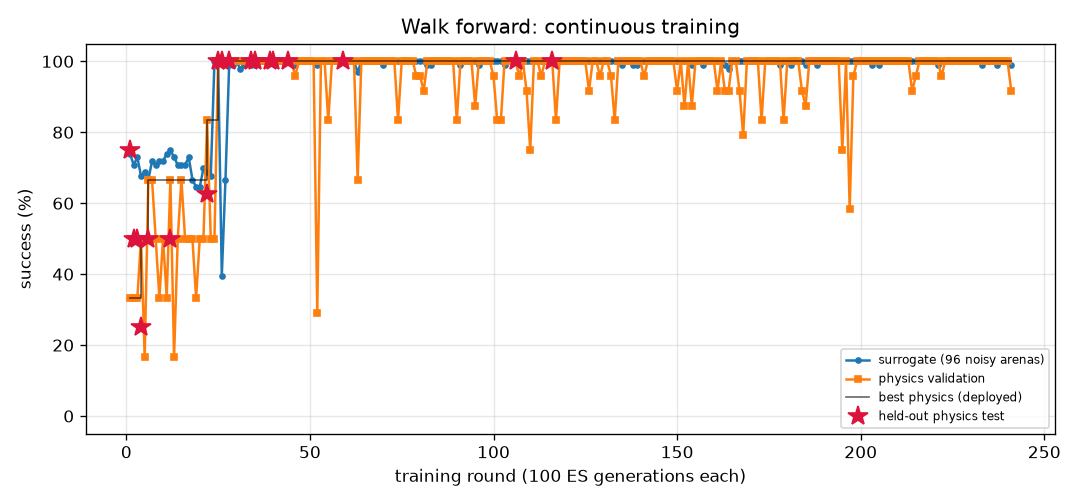
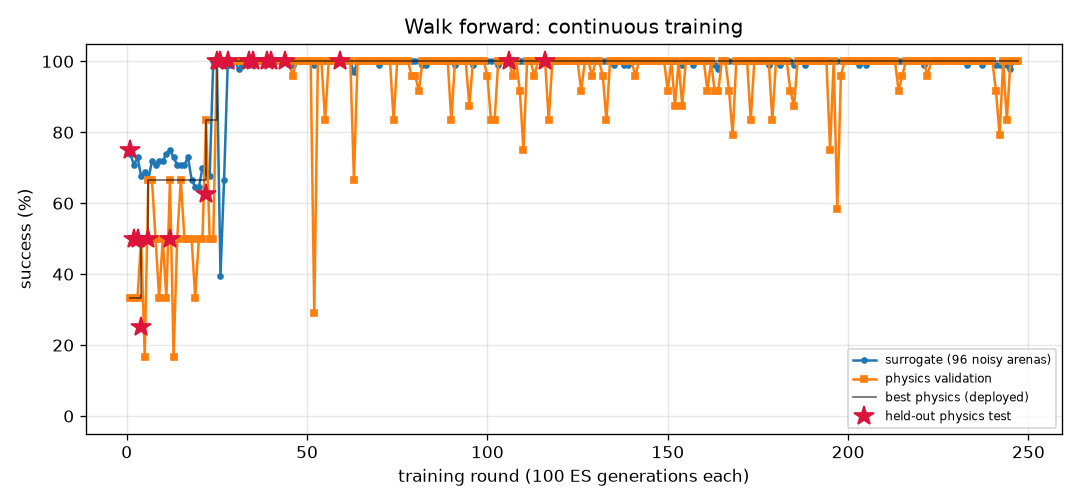
FlyLab: continuous training progress
- walk_forward: optimal, physics val 100% of 24, round 247
- turn: optimal, physics val 100% of 24, round 771
- goto: optimal, physics val 100% of 24, round 200
- odor_seek: optimal, physics val 100% of 24, round 170
- odor_avoid: optimal, physics val 100% of 24, round 711
- light_seek: optimal, physics val 100% of 24, round 399
- light_avoid: optimal, physics val 100% of 24, round 447

diff --git a/projects/09_flylab/training/walk_forward/REPORT.md b/projects/09_flylab/training/walk_forward/REPORT.md
@@ -1,14 +1,14 @@
 # Walk forward (`walk_forward`) — training report
 
-*Auto-generated by `train_brains.py`, last updated 2026-10-30T21:28:15.*
+*Auto-generated by `train_brains.py`, last updated 2026-10-31T22:15:03.*
 
 ![curve](curve.png)
 
 | | |
 |---|---|
-| rounds | 241 |
-| ES generations | 24100 |
-| physics runs | 5798 |
+| rounds | 247 |
+| ES generations | 24700 |
+| physics runs | 5942 |
 | status | **optimal** |
 | best brain | round 116: physics validation **100%** on 24 arenas, surrogate 100% |
 | held-out physics test | **100%** on 32 unseen arenas (95% CI 89%-100%) (errors: [0.13, 0.16, 0.19, 0.16, 0.15, 0.2, 0.17, 0.18, 0.17, 0.19, 0.2, 0.14, 0.17, 0.19, 0.2, 0.2, 0.13, 0.19, 0.16, 0.2, 0.2, 0.16, 0.17, 0.2, 0.13, 0.15, 0.18, 0.14, 0.16, 0.15, 0.19, 0.12]) |
@@ -17,12 +17,6 @@ Physics error per arena: mm from target at the end (< 1.5 and standing still = s
 
 | round | level | gens | sigma | surrogate | physics val | val errors | test | note |
 |---:|---:|---:|---:|---:|---:|---|---:|---|
-| 202 | 3 | 20200 | 0.024 | 100% | 100% | [0.25, 0.26, 0.23, 0.25, 0.26, 0.22, 0.26, 0.23, 0.26, 0.27, 0.22, 0.26, 0.23, 0.22, 0.25, 0.27, 0.25, 0.26, 0.23, 0.25, 0.23, 0.27, 0.26, 0.23] |  |  |
-| 203 | 3 | 20300 | 0.024 | 99% | 100% | [0.23, 0.24, 0.21, 0.23, 0.16, 0.11, 0.22, 0.17, 0.23, 0.28, 0.09, 0.2, 0.2, 0.18, 0.24, 0.28, 0.23, 0.22, 0.17, 0.23, 0.16, 0.28, 0.24, 0.22] |  |  |
-| 204 | 3 | 20400 | 0.025 | 100% | 100% | [0.22, 0.21, 0.23, 0.23, 0.21, 0.23, 0.22, 0.24, 0.21, 0.17, 0.22, 0.15, 0.23, 0.23, 0.22, 0.18, 0.23, 0.22, 0.24, 0.22, 0.23, 0.15, 0.17, 0.23] |  | restart from best |
-| 205 | 3 | 20500 | 0.024 | 99% | 100% | [0.25, 0.29, 0.16, 0.25, 0.29, 0.16, 0.29, 0.18, 0.29, 0.27, 0.16, 0.24, 0.18, 0.16, 0.26, 0.26, 0.23, 0.28, 0.19, 0.28, 0.21, 0.26, 0.23, 0.17] |  |  |
-| 206 | 3 | 20600 | 0.025 | 100% | 100% | [0.16, 0.25, 0.15, 0.16, 0.24, 0.16, 0.26, 0.15, 0.25, 0.29, 0.16, 0.28, 0.14, 0.16, 0.18, 0.29, 0.14, 0.23, 0.15, 0.18, 0.14, 0.29, 0.29, 0.15] |  |  |
-| 207 | 3 | 20700 | 0.024 | 100% | 100% | [0.35, 0.23, 0.33, 0.34, 0.32, 0.31, 0.23, 0.37, 0.22, 0.36, 0.25, 0.38, 0.35, 0.31, 0.35, 0.41, 0.3, 0.22, 0.37, 0.24, 0.38, 0.4, 0.38, 0.35] |  |  |
 | 208 | 3 | 20800 | 0.024 | 100% | 100% | [0.25, 0.31, 0.09, 0.24, 0.29, 0.11, 0.3, 0.19, 0.31, 0.31, 0.17, 0.3, 0.18, 0.08, 0.26, 0.3, 0.24, 0.29, 0.16, 0.27, 0.22, 0.3, 0.21, 0.19] |  | restart from best |
 | 209 | 3 | 20900 | 0.024 | 100% | 100% | [0.26, 0.26, 0.22, 0.26, 0.27, 0.22, 0.26, 0.24, 0.26, 0.24, 0.2, 0.22, 0.24, 0.22, 0.27, 0.23, 0.26, 0.27, 0.25, 0.26, 0.25, 0.24, 0.22, 0.24] |  |  |
 | 210 | 3 | 21000 | 0.024 | 100% | 100% | [0.23, 0.27, 0.19, 0.23, 0.26, 0.19, 0.27, 0.2, 0.27, 0.25, 0.18, 0.24, 0.19, 0.19, 0.24, 0.24, 0.22, 0.26, 0.2, 0.24, 0.21, 0.25, 0.23, 0.19] |  |  |
@@ -57,3 +51,9 @@ Physics error per arena: mm from target at the end (< 1.5 and standing still = s
 | 239 | 3 | 23900 | 0.024 | 100% | 100% | [0.31, 0.3, 0.33, 0.32, 0.3, 0.34, 0.29, 0.33, 0.29, 0.28, 0.34, 0.27, 0.33, 0.34, 0.31, 0.27, 0.32, 0.3, 0.33, 0.31, 0.33, 0.27, 0.26, 0.34] |  |  |
 | 240 | 3 | 24000 | 0.024 | 100% | 100% | [0.24, 0.31, 0.15, 0.23, 0.3, 0.16, 0.3, 0.17, 0.3, 0.3, 0.08, 0.27, 0.17, 0.16, 0.25, 0.28, 0.22, 0.29, 0.18, 0.27, 0.19, 0.29, 0.27, 0.17] |  | restart from best |
 | 241 | 3 | 24100 | 0.024 | 99% | 92% | [0.05, 0.14, 0.04, 0.05, 0.14, 0.04, 0.15, 0.05, 0.15, 0.17, 1.61, 0.17, 0.05, 0.09, 0.07, 0.17, 0.08, 0.05, 0.06, 0.05, 0.07, 0.16, 0.15, 0.05] |  |  |
+| 242 | 3 | 24200 | 0.025 | 99% | 79% | [0.2, 0.25, 0.12, 0.2, 0.25, 0.45, 0.24, 0.07, 0.24, 0.05, 0.03, 0.07, 0.44, 0.37, 0.22, 0.03, 0.18, 0.24, 0.08, 0.23, 0.06, 0.05, 0.06, 0.27] |  |  |
+| 243 | 3 | 24300 | 0.025 | 100% | 100% | [0.16, 0.24, 0.14, 0.15, 0.23, 0.15, 0.23, 0.1, 0.24, 0.25, 0.14, 0.25, 0.13, 0.15, 0.17, 0.24, 0.14, 0.21, 0.11, 0.18, 0.13, 0.25, 0.23, 0.13] |  |  |
+| 244 | 3 | 24400 | 0.024 | 99% | 83% | [0.04, 0.26, 0.08, 0.06, 0.27, 0.06, 0.26, 0.96, 0.26, 0.26, 0.05, 0.16, 0.15, 0.03, 0.22, 0.22, 0.05, 0.26, 0.95, 0.23, 0.05, 0.26, 0.18, 0.04] |  | restart from best |
+| 245 | 3 | 24500 | 0.024 | 98% | 100% | [0.18, 0.19, 0.13, 0.17, 0.18, 0.14, 0.18, 0.14, 0.16, 0.17, 0.12, 0.17, 0.14, 0.11, 0.18, 0.19, 0.18, 0.17, 0.15, 0.2, 0.15, 0.19, 0.19, 0.11] |  |  |
+| 246 | 3 | 24600 | 0.025 | 100% | 100% | [0.22, 0.2, 0.2, 0.19, 0.2, 0.26, 0.2, 0.16, 0.2, 0.14, 0.22, 0.11, 0.23, 0.26, 0.16, 0.13, 0.19, 0.17, 0.16, 0.16, 0.23, 0.13, 0.12, 0.23] |  |  |
+| 247 | 3 | 24700 | 0.024 | 100% | 100% | [0.15, 0.19, 0.07, 0.16, 0.19, 0.07, 0.19, 0.07, 0.2, 0.2, 0.06, 0.19, 0.07, 0.04, 0.16, 0.2, 0.15, 0.18, 0.05, 0.17, 0.07, 0.2, 0.19, 0.07] |  |  |

diff --git a/projects/09_flylab/training/light_seek/REPORT.md b/projects/09_flylab/training/light_seek/REPORT.md
@@ -1,14 +1,14 @@
 # Walk toward light (`light_seek`) — training report
 
-*Auto-generated by `train_brains.py`, last updated 2026-10-31T21:07:13.*
+*Auto-generated by `train_brains.py`, last updated 2026-10-31T21:51:10.*
 
 ![curve](curve.png)
 
 | | |
 |---|---|
-| rounds | 396 |
-| ES generations | 39600 |
-| physics runs | 6384 |
+| rounds | 399 |
+| ES generations | 39900 |
+| physics runs | 6456 |
 | status | **optimal** |
 | best brain | round 375: physics validation **100%** on 24 arenas, surrogate 100% |
 | held-out physics test | **100%** on 32 unseen arenas (95% CI 89%-100%) (errors: [0.57, 0.54, 0.53, 0.57, 0.55, 0.56, 0.59, 0.56, 0.53, 0.56, 0.71, 0.56, 0.55, 0.54, 0.53, 0.54, 0.54, 0.55, 0.52, 0.65, 0.64, 0.7, 0.58, 0.57, 0.6, 0.62, 0.55, 0.88, 0.54, 0.52, 0.62, 0.57]) |
@@ -17,9 +17,6 @@ Physics error per arena: mm from target at the end (< 1.5 and standing still = s
 
 | round | level | gens | sigma | surrogate | physics val | val errors | test | note |
 |---:|---:|---:|---:|---:|---:|---|---:|---|
-| 357 | 3 | 35700 | 0.024 | 99% | 100% | [0.65, 0.65, 0.73, 0.64, 0.78, 0.59, 0.64, 0.82, 0.64, 0.64, 0.68, 0.62, 0.68, 0.64, 0.66, 0.66, 0.64, 0.79, 0.68, 0.71, 0.62, 0.68, 0.63, 0.6] |  |  |
-| 358 | 3 | 35800 | 0.025 | 100% | 100% | [1.02, 0.95, 0.76, 0.57, 0.66, 0.6, 0.55, 0.52, 0.64, 0.56, 0.56, 0.66, 0.51, 1.04, 0.66, 0.89, 0.69, 0.66, 0.55, 0.64, 0.64, 0.71, 0.71, 1.0] |  |  |
-| 359 | 3 | 35900 | 0.024 | 100% | 100% | [0.49, 0.52, 0.6, 0.57, 0.56, 0.51, 0.54, 0.53, 0.56, 0.79, 0.51, 0.58, 0.49, 1.0, 0.49, 0.96, 0.44, 0.61, 0.61, 0.92, 0.47, 0.52, 0.44, 0.82] |  | restart from best |
 | 360 | 3 | 36000 | 0.024 | 100% | 100% | [0.52, 0.63, 0.63, 0.62, 0.53, 0.57, 0.59, 0.61, 0.54, 1.01, 0.6, 0.65, 0.62, 0.62, 0.57, 0.56, 0.56, 0.74, 0.6, 0.63, 0.55, 0.72, 0.55, 0.88] |  |  |
 | 361 | 3 | 36100 | 0.024 | 100% | 100% | [0.76, 0.58, 0.6, 0.49, 0.58, 0.57, 0.62, 0.52, 0.57, 0.53, 0.58, 0.57, 0.59, 0.58, 0.64, 0.64, 0.56, 0.57, 0.63, 0.59, 0.64, 0.74, 0.61, 0.58] |  |  |
 | 362 | 3 | 36200 | 0.024 | 100% | 92% | [0.56, 0.46, 0.48, 0.49, 0.47, 0.55, 0.53, 0.88, 1.14, 0.56, 1.9, 0.53, 0.51, 0.54, 0.59, 0.68, 0.5, 0.58, 0.54, 0.99, 0.59, 0.59, 2.82, 0.47] |  |  |
@@ -57,3 +54,6 @@ Physics error per arena: mm from target at the end (< 1.5 and standing still = s
 | 394 | 3 | 39400 | 0.024 | 100% | 96% | [0.54, 0.54, 0.6, 0.54, 0.63, 0.56, 0.63, 0.65, 0.68, 0.59, 0.75, 0.58, 0.54, 0.69, 0.71, 0.69, 0.54, 0.62, 0.63, 0.65, 0.53, 2.19, 0.64, 0.55] |  |  |
 | 395 | 3 | 39500 | 0.024 | 100% | 100% | [0.51, 0.54, 0.68, 0.64, 0.61, 0.54, 0.54, 0.55, 0.61, 0.51, 0.53, 0.51, 1.17, 0.53, 0.69, 0.67, 0.51, 0.6, 0.51, 0.62, 0.78, 0.78, 0.67, 0.55] |  | restart from best |
 | 396 | 3 | 39600 | 0.024 | 100% | 92% | [0.61, 0.66, 0.7, 0.71, 0.56, 2.04, 0.53, 0.6, 0.96, 0.64, 0.64, 0.56, 0.81, 1.02, 0.58, 0.58, 0.58, 0.56, 0.61, 1.5, 0.79, 0.57, 0.64, 0.82] |  |  |
+| 397 | 3 | 39700 | 0.024 | 100% | 100% | [0.57, 0.58, 0.6, 0.57, 0.55, 0.69, 0.76, 0.64, 0.64, 0.59, 0.61, 0.62, 0.68, 0.59, 0.6, 0.65, 0.59, 0.75, 0.59, 0.6, 0.58, 0.61, 0.56, 0.61] |  |  |
+| 398 | 3 | 39800 | 0.024 | 100% | 96% | [0.61, 0.55, 0.76, 0.58, 0.55, 0.57, 0.54, 0.55, 0.67, 0.56, 0.71, 0.56, 0.68, 1.94, 0.77, 0.56, 0.55, 0.73, 0.56, 0.74, 0.74, 0.54, 0.85, 1.3] |  |  |
+| 399 | 3 | 39900 | 0.024 | 100% | 96% | [0.68, 0.5, 0.61, 0.59, 0.5, 0.58, 0.59, 0.5, 0.53, 0.52, 0.5, 0.5, 0.52, 0.49, 0.68, 0.56, 0.55, 0.49, 0.5, 1.43, 1.26, 0.5, 0.55, 0.56] |  | restart from best |

diff --git a/projects/09_flylab/training/goto/REPORT.md b/projects/09_flylab/training/goto/REPORT.md
@@ -1,14 +1,14 @@
 # Go to a location (`goto`) — training report
 
-*Auto-generated by `train_brains.py`, last updated 2026-10-30T22:18:19.*
+*Auto-generated by `train_brains.py`, last updated 2026-10-31T22:05:56.*
 
 ![curve](curve.png)
 
 | | |
 |---|---|
-| rounds | 199 |
-| ES generations | 19900 |
-| physics runs | 4726 |
+| rounds | 200 |
+| ES generations | 20000 |
+| physics runs | 4750 |
 | status | **optimal** |
 | best brain | round 176: physics validation **100%** on 24 arenas, surrogate 100% |
 | held-out physics test | **100%** on 32 unseen arenas (95% CI 89%-100%) (errors: [0.2, 0.32, 0.19, 0.24, 0.18, 0.2, 0.19, 0.17, 0.22, 0.23, 0.23, 0.26, 0.2, 0.19, 0.24, 0.23, 0.22, 0.24, 0.2, 0.22, 0.2, 0.2, 0.26, 0.19, 0.22, 0.18, 0.26, 0.22, 0.2, 0.26, 0.23, 0.23]) |
@@ -17,7 +17,6 @@ Physics error per arena: mm from target at the end (< 1.5 and standing still = s
 
 | round | level | gens | sigma | surrogate | physics val | val errors | test | note |
 |---:|---:|---:|---:|---:|---:|---|---:|---|
-| 160 | 3 | 16000 | 0.025 | 100% | 100% | [0.55, 0.53, 0.39, 0.44, 0.4, 0.43, 0.48, 0.49, 0.5, 0.39, 0.38, 0.4, 0.51, 0.42, 0.43, 0.48, 0.52, 0.44, 0.39, 0.47, 0.45, 0.39, 0.54, 0.43] |  | restart from best |
 | 161 | 3 | 16100 | 0.024 | 100% | 100% | [0.49, 0.5, 0.36, 0.41, 0.36, 0.41, 0.47, 0.46, 0.44, 0.38, 0.36, 0.4, 0.47, 0.41, 0.47, 0.45, 0.53, 0.4, 0.36, 0.45, 0.42, 0.37, 0.52, 0.43] |  |  |
 | 162 | 3 | 16200 | 0.024 | 100% | 100% | [0.45, 0.5, 0.38, 0.42, 0.12, 0.4, 0.43, 0.43, 0.44, 0.41, 0.38, 0.42, 0.45, 0.39, 0.5, 0.44, 0.5, 0.29, 0.38, 0.45, 0.43, 0.4, 0.49, 0.42] |  |  |
 | 163 | 3 | 16300 | 0.024 | 99% | 100% | [0.28, 0.31, 0.22, 0.26, 0.23, 0.27, 0.27, 0.31, 0.29, 0.23, 0.22, 0.26, 0.3, 0.28, 0.26, 0.26, 0.29, 0.23, 0.21, 0.26, 0.26, 0.2, 0.31, 0.28] | 100% | new best |
@@ -57,3 +56,4 @@ Physics error per arena: mm from target at the end (< 1.5 and standing still = s
 | 197 | 3 | 19700 | 0.024 | 99% | 100% | [0.46, 0.44, 0.46, 0.38, 0.31, 0.36, 0.42, 0.41, 0.42, 0.33, 0.31, 0.37, 0.46, 0.36, 0.44, 0.43, 0.47, 0.38, 0.31, 0.43, 0.38, 0.34, 0.46, 0.36] |  |  |
 | 198 | 3 | 19800 | 0.025 | 99% | 100% | [0.59, 0.63, 0.64, 0.54, 0.56, 0.52, 0.6, 0.56, 0.55, 0.55, 0.54, 0.56, 0.62, 0.55, 0.66, 0.64, 0.61, 0.52, 0.53, 0.59, 0.6, 0.57, 0.63, 0.54] |  |  |
 | 199 | 3 | 19900 | 0.025 | 99% | 100% | [0.68, 0.67, 0.69, 0.58, 0.57, 0.6, 0.67, 0.62, 0.61, 0.53, 0.53, 0.56, 0.65, 0.57, 0.58, 0.6, 0.68, 0.62, 0.55, 0.61, 0.6, 0.51, 0.69, 0.59] |  |  |
+| 200 | 3 | 20000 | 0.025 | 100% | 100% | [0.49, 0.52, 0.56, 0.45, 0.53, 0.47, 0.52, 0.53, 0.47, 0.49, 0.5, 0.47, 0.52, 0.52, 0.57, 0.55, 0.53, 0.44, 0.49, 0.51, 0.56, 0.52, 0.54, 0.47] |  | restart from best |

diff --git a/projects/09_flylab/training/TRAINING.md b/projects/09_flylab/training/TRAINING.md
@@ -1,15 +1,15 @@
 # FlyLab brains — continuous training log
 
-*Auto-generated by `train_brains.py`, last updated 2026-10-31T21:10:55.*
+*Auto-generated by `train_brains.py`, last updated 2026-10-31T22:15:03.*
 
 Every skill has its own brain and its own training process: surrogate ES rounds, physics validation in MuJoCo, keep-the-best selection, and a held-out physics test that is never used for selection. See each skill's report for its full round-by-round history. Mastery is progressive: passing a level (100% physics validation, >=95% surrogate) doubles the validation and test arena sets; a brain is **optimal** once it holds up at level 3 (>=95% of 24 validation arenas) AND scores >=90% on the 32 held-out test arenas. Test columns show 95% Wilson confidence intervals.
 
 | skill | rounds | ES generations | physics runs | surrogate | physics val | **physics test** | status |
 |---|---:|---:|---:|---:|---:|---:|---|
-| [Walk forward](walk_forward/REPORT.md) | 241 | 24100 | 5798 | 100% | 100% of 24 | 100% of 32 (CI 89-100%) | **optimal** |
+| [Walk forward](walk_forward/REPORT.md) | 247 | 24700 | 5942 | 100% | 100% of 24 | 100% of 32 (CI 89-100%) | **optimal** |
 | [Turn in place](turn/REPORT.md) | 771 | 77100 | 18750 | 100% | 100% of 24 | 97% of 32 (CI 84-99%) | **optimal** |
-| [Go to a location](goto/REPORT.md) | 199 | 19900 | 4726 | 100% | 100% of 24 | 100% of 32 (CI 89-100%) | **optimal** |
+| [Go to a location](goto/REPORT.md) | 200 | 20000 | 4750 | 100% | 100% of 24 | 100% of 32 (CI 89-100%) | **optimal** |
 | [Find food by smell](odor_seek/REPORT.md) | 170 | 17000 | 3510 | 100% | 100% of 24 | 100% of 32 (CI 89-100%) | **optimal** |
 | [Escape a bad smell](odor_avoid/REPORT.md) | 711 | 71100 | 14370 | 97% | 100% of 24 | 97% of 32 (CI 84-99%) | **optimal** |
-| [Walk toward light](light_seek/REPORT.md) | 396 | 39600 | 6384 | 100% | 100% of 24 | 100% of 32 (CI 89-100%) | **optimal** |
+| [Walk toward light](light_seek/REPORT.md) | 399 | 39900 | 6456 | 100% | 100% of 24 | 100% of 32 (CI 89-100%) | **optimal** |
 | [Hide from light](light_avoid/REPORT.md) | 447 | 44700 | 11000 | 100% | 100% of 24 | 100% of 32 (CI 89-100%) | **optimal** |
